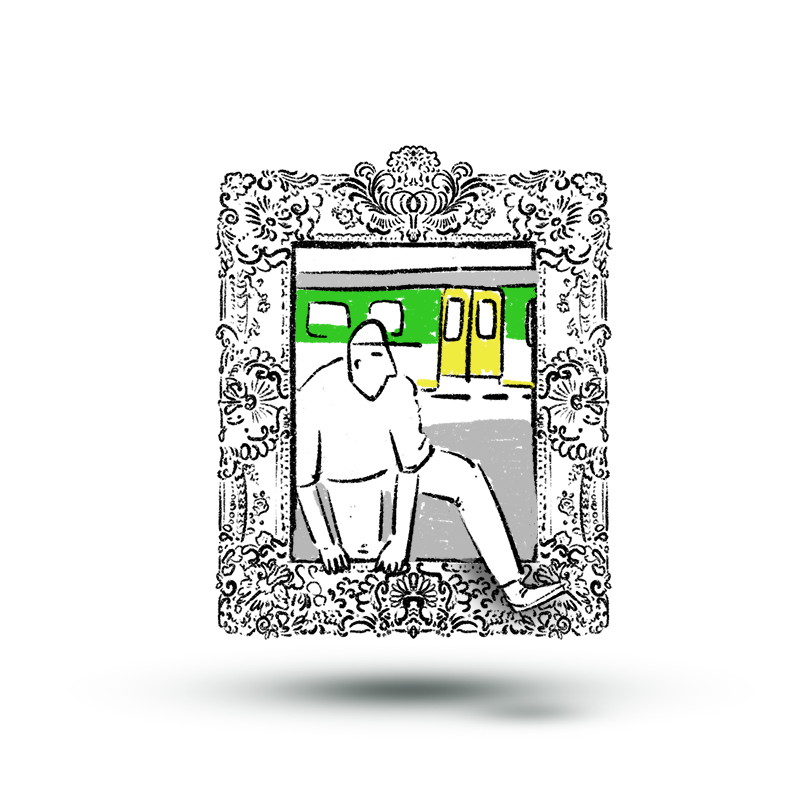
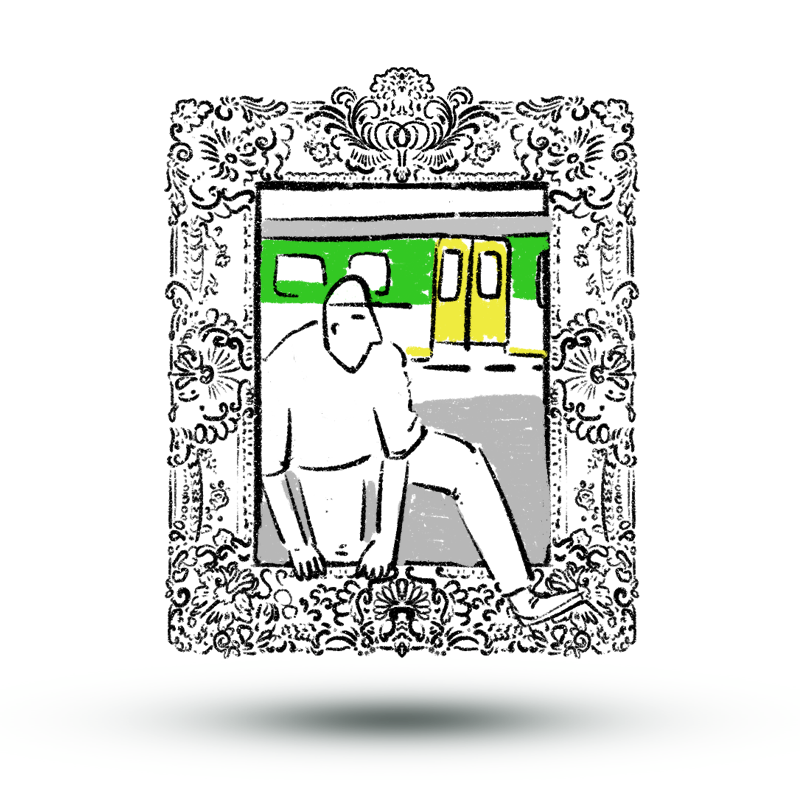
change homepage images via change theme

Changed region(s): [[0.1875, 0.0625, 0.8125, 0.9375]]

diff --git a/components/FreeGraffitiPage.jsx b/components/FreeGraffitiPage.jsx
@@ -1,12 +1,14 @@
 import Image from 'next/image'
 import React from 'react'
-import { Button } from '.'
 import  Link  from 'next/link'
+import { useTheme } from 'next-themes'
 
 // external imports
+import { Button } from '.'
 import images from '../assets/app'
 
 const FreeGraffitiPage = () => {
+  const theme = useTheme().theme
   return (
     <section className="sticky top-0 mx-auto flex h-screen max-w-[1350px] items-center justify-between px-8">
       <div className="space-y-8">
@@ -22,7 +24,11 @@ const FreeGraffitiPage = () => {
         </div>
       </div>
       <div className="relative hidden h-[450px] w-[450px] transition-all duration-500 md:inline lg:h-[600px] lg:w-[600px]">
-        <Image src={images.FreeGraffitiImage} layout="fill" objectFit="contain"/>
+      {theme === 'dark' ? (
+           <Image src={images.FreeGraffitiImageDark} layout="fill" objectFit="contain"/>
+        ) : (
+           <Image src={images.FreeGraffitiImage} layout="fill" objectFit="contain"/>
+        )}
       </div>
     </section>
   )

diff --git a/components/HomePage.jsx b/components/HomePage.jsx
@@ -1,13 +1,15 @@
 import Image from 'next/image'
 import Link from 'next/link'
 import React from 'react'
-import { Button } from '.'
+import { useTheme } from 'next-themes';
 
 // external imports
+import { Button } from '.'
 import images from '../assets/app'
 
-const HomePage = () => {
 
+const HomePage = () => {
+  const theme = useTheme().theme
   return (
     <section className="sticky top-0 mx-auto flex h-screen max-w-[1350px] items-center justify-between px-8">
       <div className="space-y-8">
@@ -23,7 +25,11 @@ const HomePage = () => {
         </div>
       </div>
       <div className="relative hidden h-[450px] w-[450px] transition-all duration-500 md:inline lg:h-[600px] lg:w-[600px]">
-        <Image src={images.HomeImage} layout="fill" objectFit="contain"/>
+        {theme === 'dark' ? (
+           <Image src={images.HomeImageDark} layout="fill" objectFit="contain"/>
+        ) : (
+           <Image src={images.HomeImage} layout="fill" objectFit="contain"/>
+        )}
       </div>
     </section>
   )

diff --git a/components/SalePage.jsx b/components/SalePage.jsx
@@ -1,12 +1,14 @@
 import Image from 'next/image'
 import React from 'react'
-import { Button } from '.'
 import Link from 'next/link'
+import { useTheme } from 'next-themes'
 
 // external imports
+import { Button } from '.'
 import images from '../assets/app'
 
 const SalePage = () => {
+  const theme = useTheme().theme
   return (
     <section className="sticky top-0 mx-auto flex h-screen max-w-[1350px] items-center justify-between px-8">
       <div className="space-y-8">
@@ -22,7 +24,11 @@ const SalePage = () => {
         </div>
       </div>
       <div className="relative hidden h-[450px] w-[450px] transition-all duration-500 md:inline lg:h-[600px] lg:w-[600px]">
-        <Image src={images.SaleImage} layout="fill" objectFit="contain"/>
+      {theme === 'dark' ? (
+           <Image src={images.SaleImageDark} layout="fill" objectFit="contain"/>
+        ) : (
+           <Image src={images.SaleImage} layout="fill" objectFit="contain"/>
+        )}
       </div>
     </section>
   )

diff --git a/components/ArtPage.jsx b/components/ArtPage.jsx
@@ -1,12 +1,14 @@
 import Image from 'next/image'
 import React from 'react'
-import { Button } from '.'
 import Link from 'next/link'
+import { useTheme } from 'next-themes'
 
 // external imports
+import { Button } from '.'
 import images from '../assets/app'
 
 const ArtPage = () => {
+  const theme = useTheme().theme
   return (
     <section className="sticky top-0 mx-auto flex h-screen max-w-[1350px] items-center justify-between px-8">
       <div className="space-y-8">
@@ -22,7 +24,11 @@ const ArtPage = () => {
         </div>
       </div>
       <div className="relative hidden h-[450px] w-[450px] transition-all duration-500 md:inline lg:h-[600px] lg:w-[600px]">
-        <Image src={images.ArtImage} layout="fill" objectFit="contain"/>
+      {theme === 'dark' ? (
+           <Image src={images.ArtImageDark} layout="fill" objectFit="contain"/>
+        ) : (
+           <Image src={images.ArtImage} layout="fill" objectFit="contain"/>
+        )}
       </div>
     </section>
   )

diff --git a/assets/app/index.jsx b/assets/app/index.jsx
@@ -1,9 +1,14 @@
 import logo from './logo.svg';
 import ArtImage from './ArtImage.png';
+import ArtImageDark from './ArtImageDark.png'
 import FreeGraffitiImage from './FreeGraffitiImage.png';
+import FreeGraffitiImageDark from './FreeGraffitiImageDark.png';
 import HomeImage from './HomeImage.png';
+import HomeImageDark from './HomeImageDark.png';
 import SaleImage from './SaleImage.png';
+import SaleImageDark from './SaleImageDark.png';
+
 
 export default {
-    logo, ArtImage, FreeGraffitiImage, HomeImage, SaleImage
+    logo, ArtImage, ArtImageDark, FreeGraffitiImage, FreeGraffitiImageDark, HomeImage, HomeImageDark, SaleImage, SaleImageDark
 }
